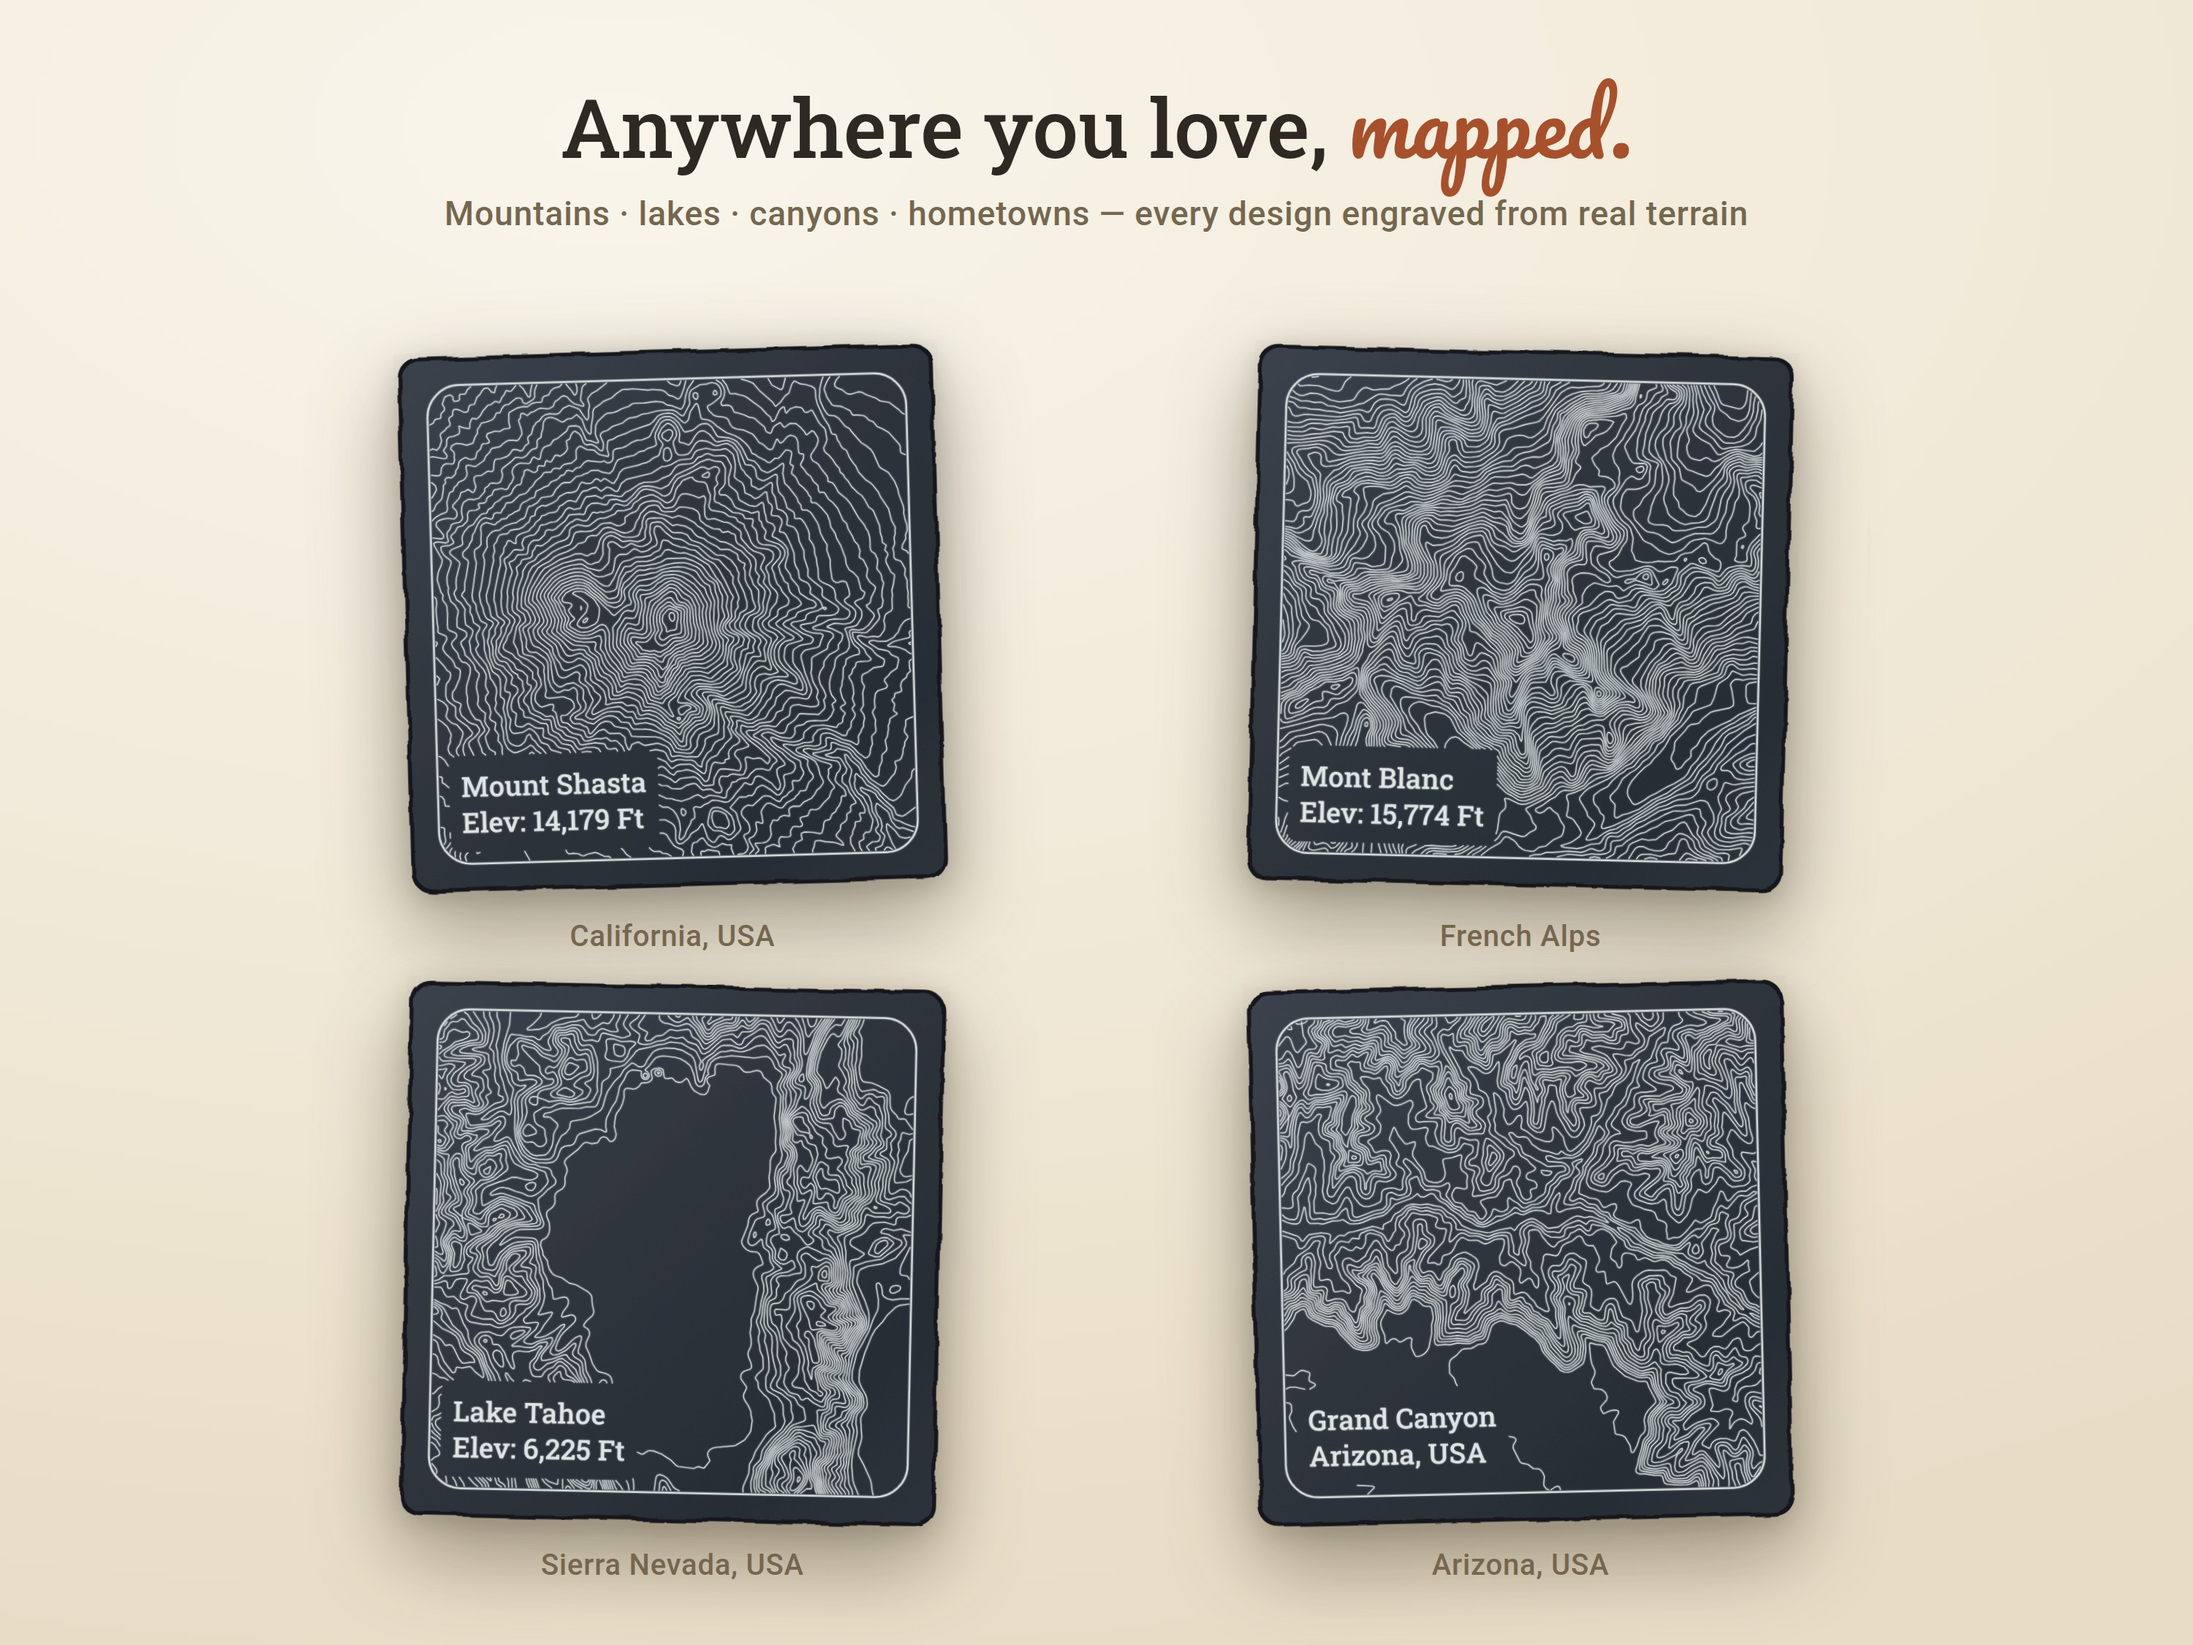
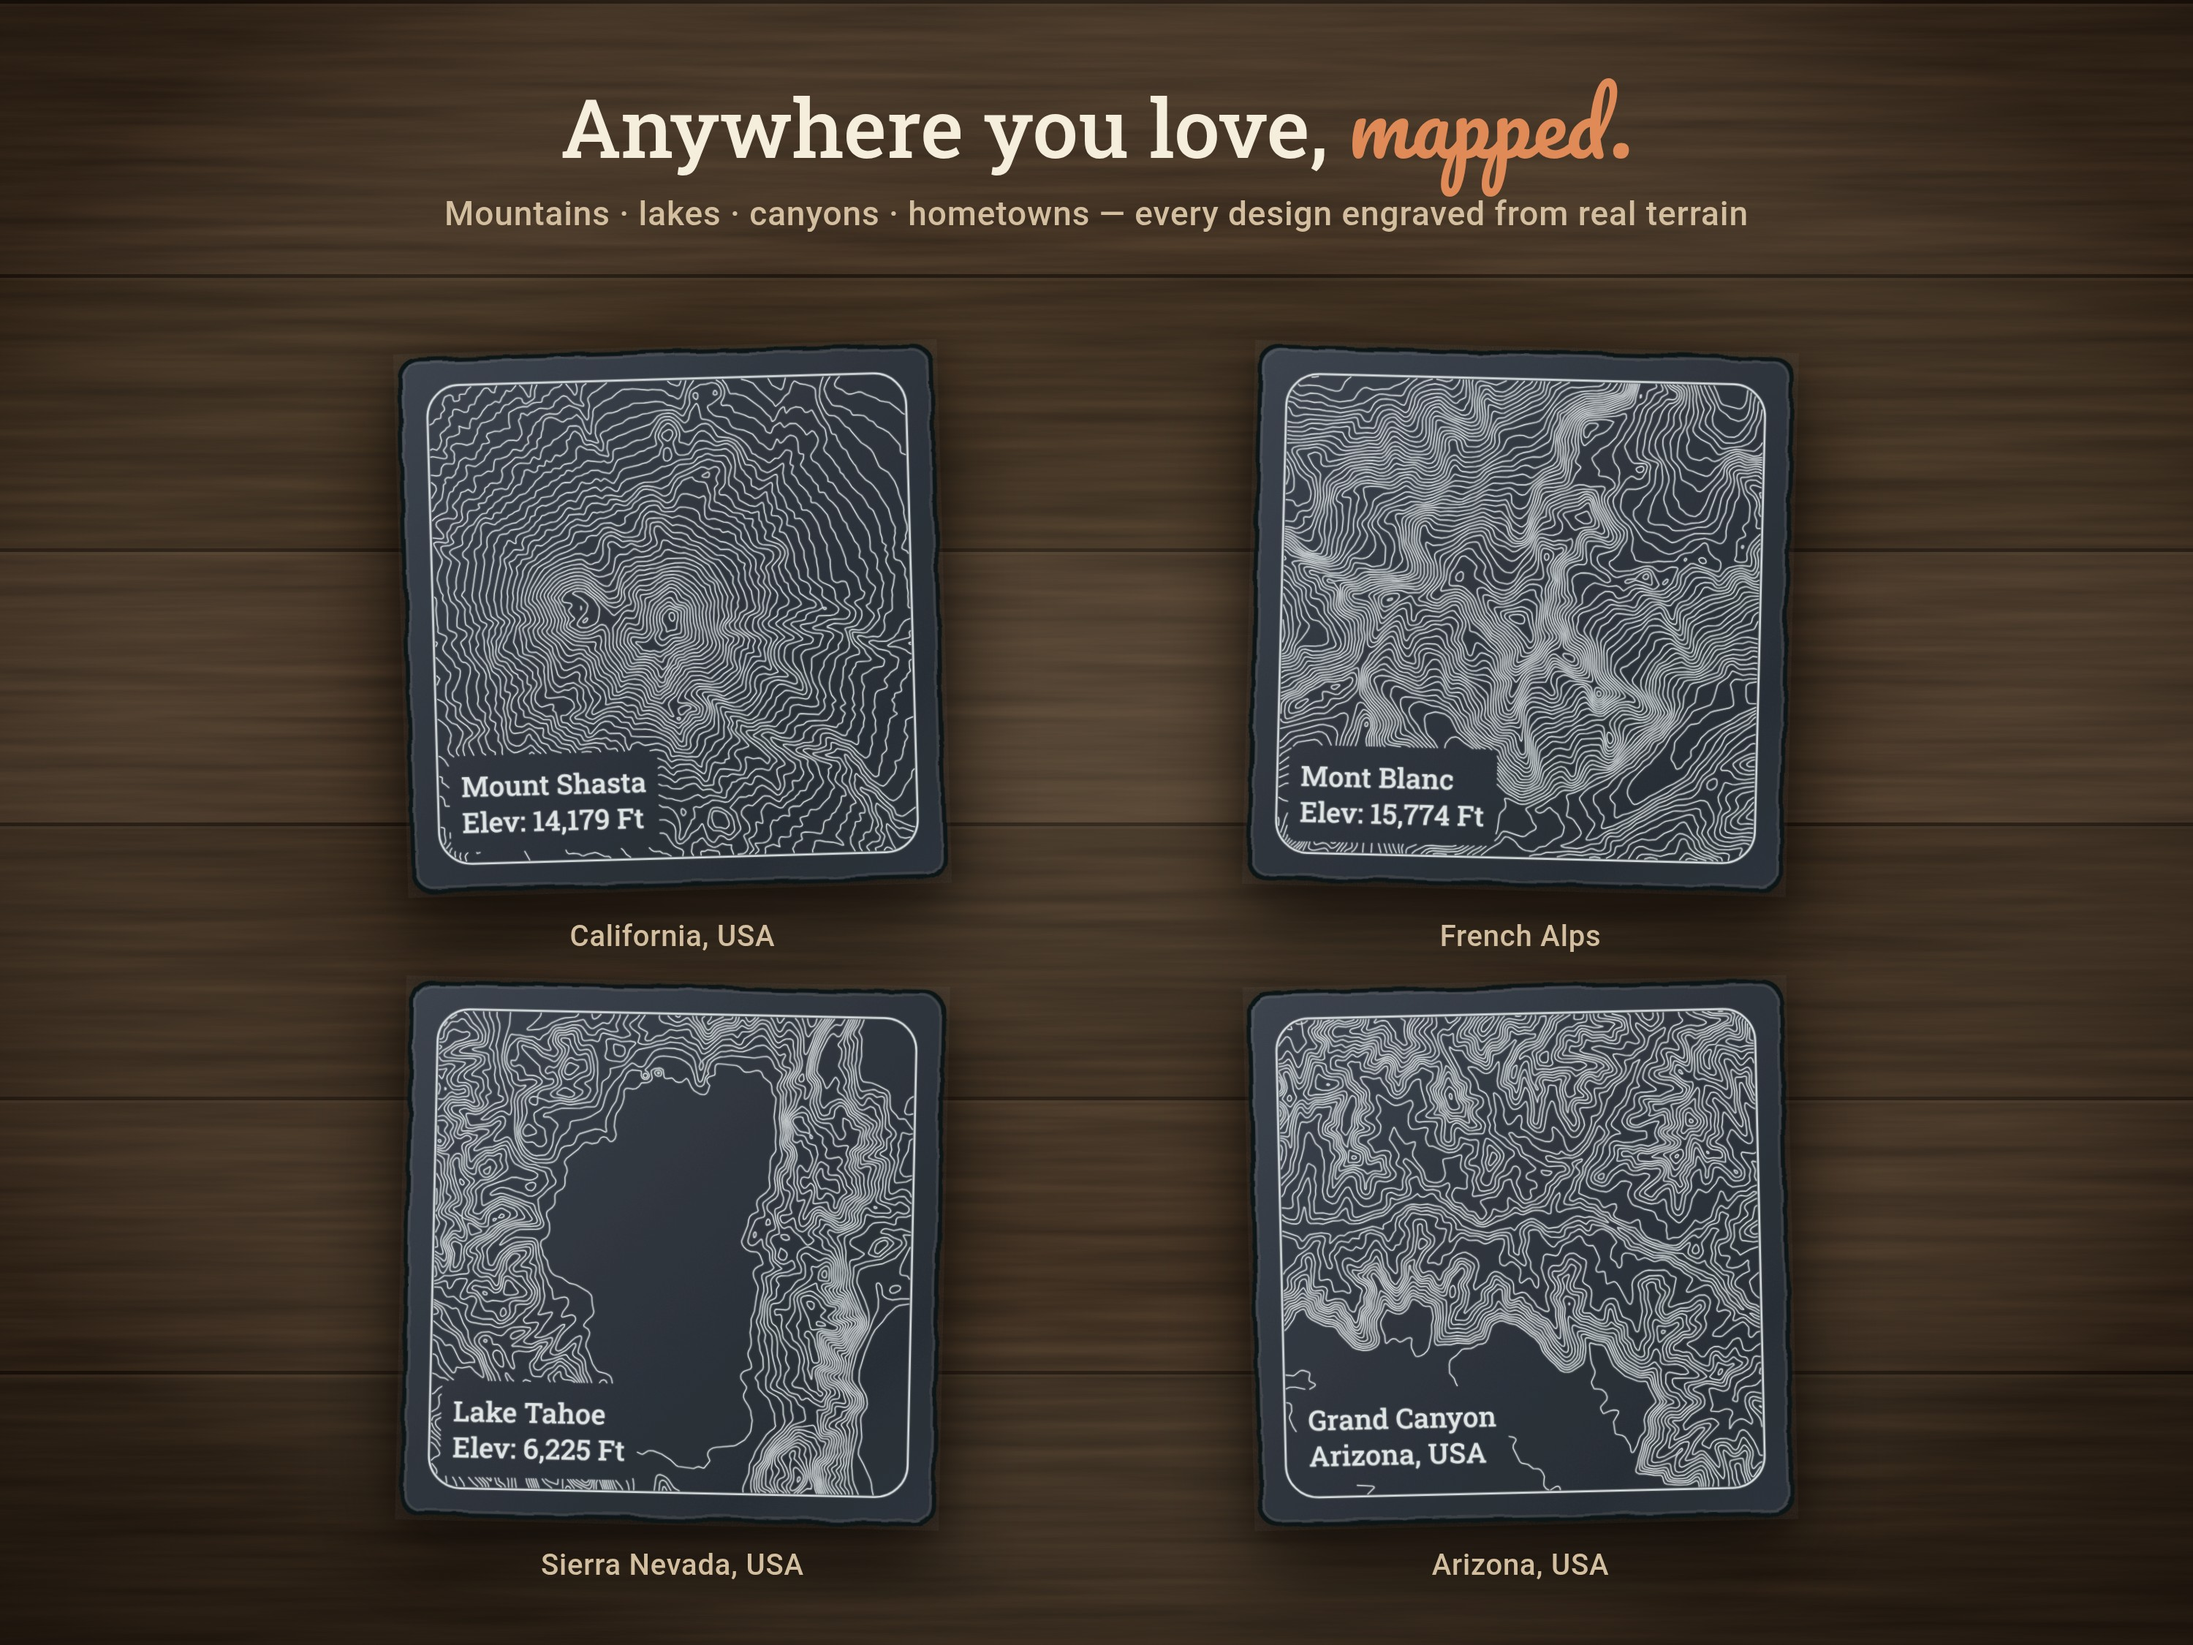
Restyle marketing set on rustic walnut + add Crater Lake thumbnail
Replace the tan paper background with a procedural dark-walnut tabletop
(SVG planks, stretched wood grain, warm light pool, vignette); captions
and arrows switch to cream chalk-style with a soft orange accent, slate
slabs gain a rim light for separation, and the how-it-works cards stay
cream for contrast. New 2048x2048 square thumbnail features Crater Lake
(caldera ring + Wizard Island, engraved from real terrain).

Claude-Session: https://claude.ai/code/session_01ETWMFiPa7qFaepQPNrY3fy

diff --git a/marketing/README.md b/marketing/README.md
@@ -1,11 +1,13 @@
 # Marketing images
 
-Etsy-ready listing photos (3000 × 2250, 4:3 — Etsy's recommended size), generated
-from real terrain by `generate.mjs`. Mix them with actual product photos in a
-listing.
+Etsy-ready listing photos generated from real terrain by `generate.mjs`, styled
+on a rustic dark-walnut tabletop. Mix them with actual product photos in a
+listing. The four numbered images are 3000 × 2250 (Etsy's recommended 4:3);
+the thumbnail is 2048 × 2048 square.
 
 | File | Use |
 | --- | --- |
+| `etsy-0-thumbnail.jpg` | Square thumbnail — Crater Lake caldera (instantly recognizable ring + Wizard Island) |
 | `etsy-1-hero.jpg` | Personalization callouts — arrows to every field a buyer can customize |
 | `etsy-2-anywhere.jpg` | "Anywhere you love, mapped" — Shasta, Mont Blanc, Tahoe, Grand Canyon |
 | `etsy-3-make-it-yours.jpg` | The three lettering styles and the auto-sizing text panel |
